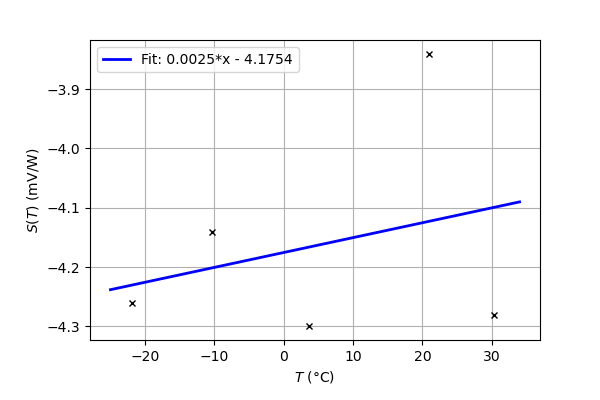
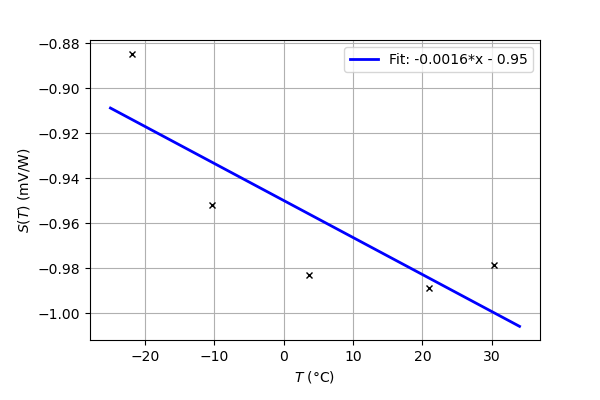
P4

diff --git a/AP (Python)/Practicas Termo (Barcelona)/P4.py b/AP (Python)/Practicas Termo (Barcelona)/P4.py
@@ -122,6 +122,7 @@ for i in range(countFiles):
     ax[i+countFiles].plot(x_data[i],y_data_new[i],'o',label=string,markersize=2,color="Black")
     ax[i+countFiles].legend()
     ax[i+countFiles].grid(True)
+Y = np.flip(Y)
     
 ax[5].set_title("$T$ = 30,3°C")
 ax[6].set_title("$T$ = 21,0°C")
@@ -144,7 +145,7 @@ ax[10].set_ylabel("$Y(T)$ (mV)")
 I = [-2.13,-2.07,-2.15,-1.92,-2.14]
 S = []
 for i in range(5):
-    S.append(I[i]*2)
+    S.append(Y[i]/(I[i]*2))
 fig.append(plt.figure())
 ax.append(fig[11].add_axes([0.15,0.15,0.75,0.75]))
 ax[11].plot(T,S,'x',markersize=4,color="Black")
